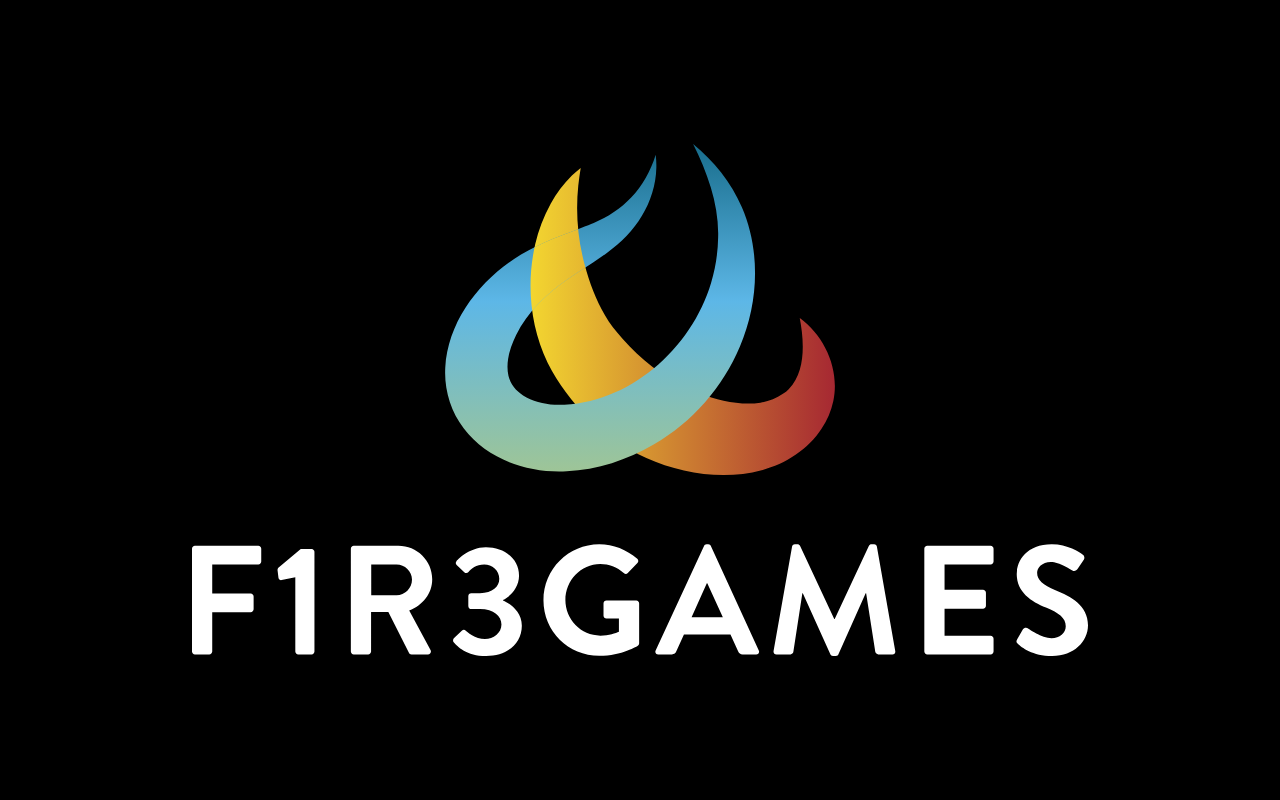
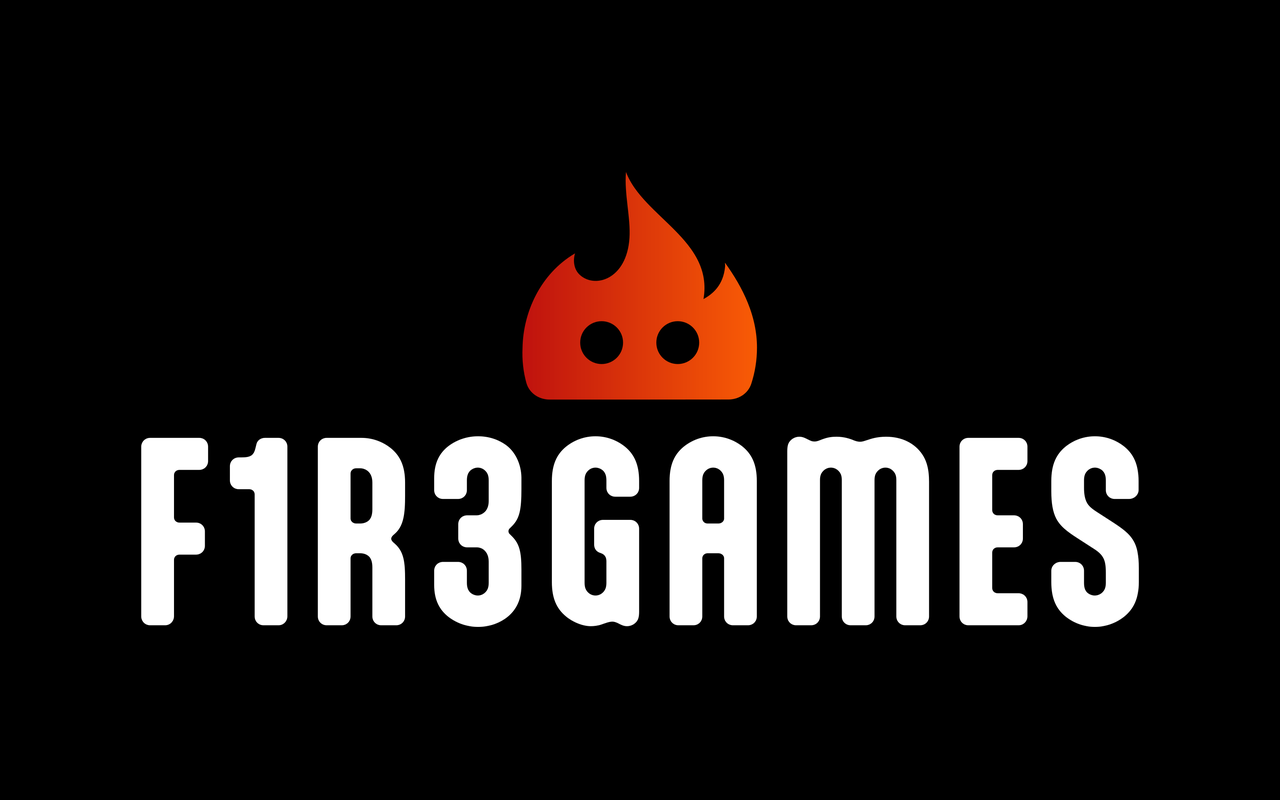
Brand map: latest F1R3Games mark, MeTTaCycle 2025 draft, Finding Mind reference; US spelling
Claude-Session: https://claude.ai/code/session_018hjaucYYPbWbqcPqRcYSaQ

Changed region(s): [[0.0938, 0.1875, 0.9062, 0.8438]]

diff --git a/plan/brands.html b/plan/brands.html
@@ -31,22 +31,22 @@
   <div class="grid">
     <div class="card"><div class="mark"><img src="img/f1r3lang.png" alt=""></div><h3>f1r3lang</h3><p>The language, formerly Rholang; RoLang retired 28 August. Said "fire-lang." Mark v1, styled f1r3|@ng. Site live at f1r3lang.ai.</p><p><span class="tag draft">Draft v1</span></p></div>
     <div class="card"><div class="mark empty">no mark</div><h3>F1R3Node</h3><p>The node and shard software (f1r3node, f1r3node-rust). Named in every repo, never branded.</p><p><span class="tag none">No mark</span></p></div>
-    <div class="card"><div class="mark empty">no mark</div><h3>MeTTaCycle</h3><p>The yellow paper for the decentralized agentic platform. A name outside the F1R3 convention.</p><p><span class="tag none">No mark</span></p></div>
+    <div class="card"><div class="mark light"><img src="img/mettacycle.png" alt=""></div><h3>MeTTaCycle</h3><p>The decentralized agentic platform and its yellow paper. Logo drafts from 2025 (eight rounds); Greg liked the lightest weight of the Minion Variable version. Never finalized.</p><p><span class="tag draft">Draft, 2025</span></p></div>
   </div>
 
   <h2>Products with marks</h2>
   <div class="grid">
     <div class="card"><div class="mark"><img src="img/gaze.png" alt=""></div><h3>F1R3Gaze</h3><p>The browser. Eye mark, Greg's pick on 16 October; icons delivered to Dylon 18 October. Wordmark and lockups drafted, awaiting Greg.</p><p><span class="tag final">Mark final</span> <span class="tag pending">Wordmark</span></p></div>
     <div class="card"><div class="mark"><img src="img/ign1t10n.png" alt=""></div><h3>ign1t10n</h3><p>The installer and menu-bar app that runs the local shard. On-button mark, Greg's pick on 16 October; delivered. Wordmark drafted.</p><p><span class="tag final">Mark final</span> <span class="tag pending">Wordmark</span></p></div>
-    <div class="card"><div class="mark"><img src="img/sky.png" alt=""></div><h3>F1R3Sky</h3><p>The Bluesky fork, with wallets and agents (f1r3sky, embers). A swift seen from below: sickle wings, forked tail for "a fork of Bluesky." First pass 18 October.</p><p><span class="tag draft">Draft</span></p></div>
-    <div class="card"><div class="mark"><img src="img/games.png" alt=""></div><h3>F1R3Games</h3><p>Games for collective intelligence: F1R3Pix, F1R3Beat, F1R3Ink, F1R3Skein, F1R3SideChat, each with its own wordmark. Greg, 8 October: two more games to build, then branding; may ship only inside the browser.</p><p><span class="tag pending">In use, approval pending</span></p></div>
+    <div class="card"><div class="mark"><img src="img/sky.png" alt=""></div><h3>F1R3Sky</h3><p>The Bluesky fork, with wallets and agents (f1r3sky, embers). A swift seen from below: sickle wings, forked tail for "a fork of Bluesky." First pass 18 October.</p><p><span class="tag draft">In progress</span></p></div>
+    <div class="card"><div class="mark"><img src="img/games.png" alt=""></div><h3>F1R3Games</h3><p>Flame mark and wordmark, July 2026. Games for collective intelligence: F1R3Pix, F1R3Beat, F1R3Ink, F1R3Skein, F1R3SideChat, each with its own wordmark. Greg, 8 October: two more games to build, then branding; may ship only inside the browser.</p><p><span class="tag pending">Approval pending</span></p></div>
     <div class="card"><div class="mark"><img src="img/skein.png" alt=""></div><h3>F1R3Skein</h3><p>One of the five games, shown as the example of the per-game wordmarks.</p><p><span class="tag pending">Pending with F1R3Games</span></p></div>
     <div class="card"><div class="mark"><img src="img/sidechat.png" alt=""></div><h3>F1R3SideChat</h3><p>Another of the five.</p><p><span class="tag pending">Pending with F1R3Games</span></p></div>
-    <div class="card"><div class="mark empty">no mark chosen</div><h3>Finding Mind</h3><p>Greg's book, and the podcast. Its own brand under the umbrella (Greg, 16 October). Nine logo directions reviewed in September, none compelling; podcast branding meeting pending.</p><p><span class="tag none">No mark</span></p></div>
+    <div class="card"><div class="mark"><img src="img/findingmind.png" alt=""></div><h3>Finding Mind</h3><p>Greg's book, and the podcast. Its own brand under the umbrella (Greg, 16 October). The image is Greg's reference from September: the hand of cells reaching for the apple, the serpent above. Logo and podcast branding to come.</p><p><span class="tag draft">In progress</span></p></div>
   </div>
 
   <h2>Named in GitHub, no mark yet</h2>
-  <p>From the F1R3FLY-io organisation on 19 October (75 repositories). The question for Greg: which of these are products that people will meet, and so need a mark, and which are just repositories.</p>
+  <p>From the F1R3FLY-io organization on 19 October (75 repositories). The question for Greg: which of these are products that people will meet, and so need a mark, and which are just repositories.</p>
   <table>
     <tr><th>Name</th><th>What it is, in GitHub's words</th><th>Last touched</th></tr>
     <tr><td><b>F1R3Drive</b></td><td>Mounts F1R3FLY chain state as a local filesystem; Finder extension for share links and permissions. "The flagship app" (28 August).</td><td>19 October</td></tr>
@@ -68,7 +68,7 @@
   </table>
 
   <h2>Web properties, for completeness</h2>
-  <p>f1r3fly.io (dark, the platform), f1r3fly.com (light, the UK company), f1r3lang.ai (the language), and an older organisation site at f1r3fly-io.github.io (a Jekyll "agency" theme from three years ago, last deployed five months ago; Jeff and Greg are its contributors). The old site still carries whatever branding it had then; worth a look before anyone sends a link to it.</p>
+  <p>f1r3fly.io (dark, the platform), f1r3fly.com (light, the UK company), f1r3lang.ai (the language), and an older organization site at f1r3fly-io.github.io (a Jekyll "agency" theme from three years ago, last deployed five months ago; Jeff and Greg are its contributors). The old site still carries whatever branding it had then; worth a look before anyone sends a link to it.</p>
   <h2>Outside the map</h2>
   <p>Leithaus, Greg's music, has its own site and is not part of this study.</p>
 
@@ -88,7 +88,7 @@
       </ul>
     </li>
   </ul>
-  <p class="note">Open question, seven months old: one consistent rule for how sub-brands relate to the parent. The study result and the F1R3 Industries question land together.</p>
+  <p class="note">The naming convention is already the rule in practice: F1R3 plus a plain word. The study result and the F1R3 Industries question land together.</p>
 </main>
 </body>
 </html>

diff --git a/plan/questions.html b/plan/questions.html
@@ -19,11 +19,11 @@
   <p class="lede">Greg's condition: framing is 90 percent of the result, so name the bias instead of claiming there is none. Each question below carries its note. Print this page to PDF if you want to mark it up.</p>
 
   <h2>Study one: the name</h2>
-  <p>One name per person, drawn at random from F1R3FLY, F1R3, FIRE, KAVRIX, F1R3LY. Seeing one name and being tested on it is how a real first encounter works; showing the names side by side turns the study into a beauty contest, and preference votes favour the plainest name every time (Catchword, NameStormers, SurveyMonkey all say the same).</p>
+  <p>One name per person, drawn at random from F1R3FLY, F1R3, FIRE, KAVRIX, F1R3LY. Seeing one name and being tested on it is how a real first encounter works; showing the names side by side turns the study into a beauty contest, and preference votes favor the plainest name every time (Catchword, NameStormers, SurveyMonkey all say the same).</p>
 
   <div class="q">Before the name: What best describes your work? / How old are you?</div>
   <p class="note">Sorts people into the groups on the Who page. Bands, not exact ages, so people answer.</p>
-  <div class="q">The name, alone, for five seconds. Plain text, no logo, no colour.</div>
+  <div class="q">The name, alone, for five seconds. Plain text, no logo, no color.</div>
   <p class="note">No logo, because the logo carries the brand work already done and would test that instead. All caps, because that is how the wordmark reads. Five seconds is the standard first-impression exposure.</p>
   <div class="q">1. In one or two words, what do you think this company does?</div>
   <p class="note">The most useful question, asked first, before any hint. The answer we fear is "crypto." The answers we want are near "software," "infrastructure," "AI."</p>
